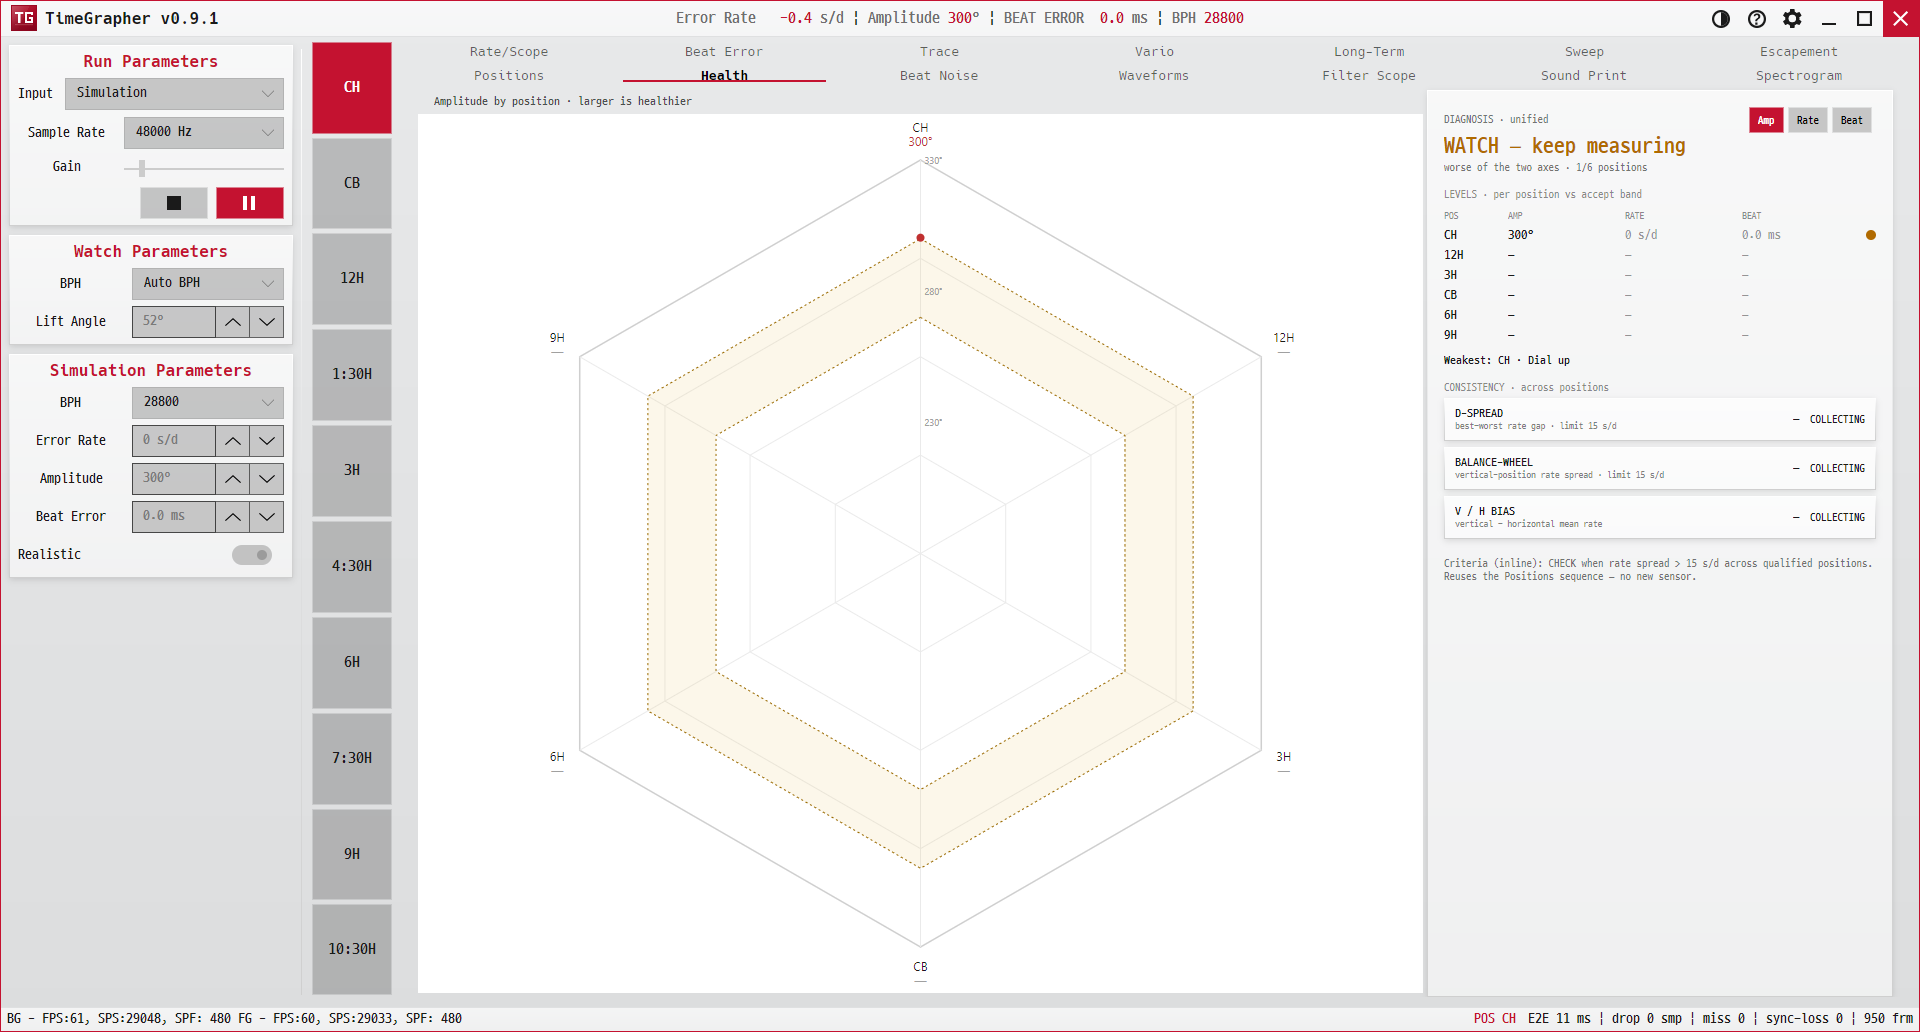
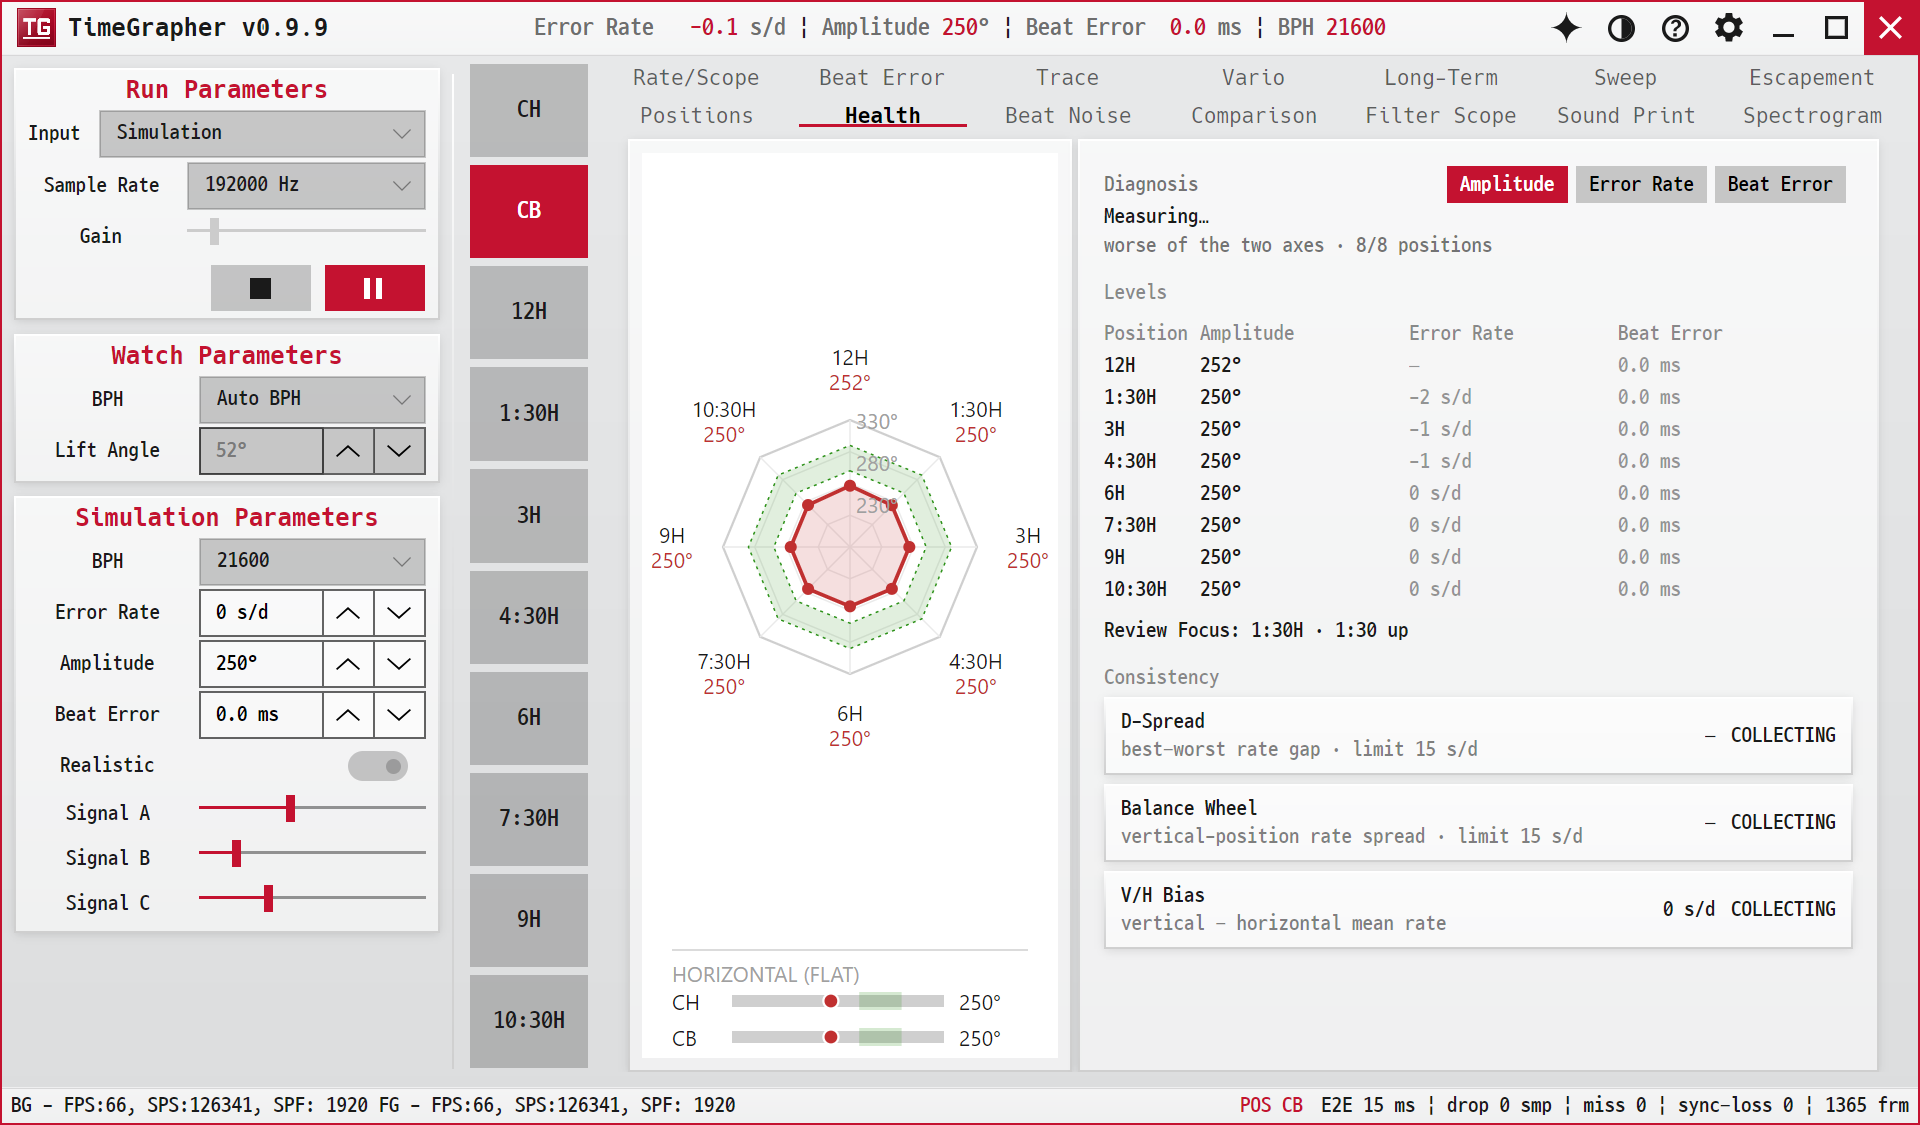
docs(health): update the manual for the octagon radar and CH/CB strip
[en]
Update the Health manual page (ko/en/pt) to describe the eight vertical-position
octagon and the separate horizontal (CH/CB) gauge strip, and recapture
tab-health.png from the running app at its default window size.

[ko]
Health 매뉴얼 페이지(ko/en/pt)를 수직 8자세 팔각형과 별도 수평(CH/CB) 게이지 영역
설명으로 갱신하고, 실행 중인 앱에서 기본 창 크기로 tab-health.png를 재캡처한다.

diff --git a/manual/graphs/health.html b/manual/graphs/health.html
@@ -18,15 +18,15 @@
     <div class="content-inner">
 
       <h1>10. Health</h1>
-      <p class="lede ko">자세별 측정값을 육각형 레이더로 펼치고, 옆의 진단 패널에서 "이 시계가 건강한지"를 한 줄 판정으로 정리합니다. 새 센서 없이 <a href="positions.html">Positions</a> 데이터를 그대로 재사용합니다.</p>
-      <p class="lede en">Spreads the per-position readings onto a hexagon radar and, in the side panel, boils the watch down to a single health verdict. It reuses the <a href="positions.html">Positions</a> data — no new sensor.</p>
-      <p class="lede pt">Distribui as leituras por posição em um radar hexagonal e, no painel lateral, resume o relógio em um único veredito de saúde. Reaproveita os dados de <a href="positions.html">Positions</a> — sem novo sensor.</p>
+      <p class="lede ko">수직 8개 자세의 측정값을 팔각형 레이더로 펼치고, 수평(CH/CB)은 아래 게이지로 분리해 보여주며, 옆의 진단 패널에서 "이 시계가 건강한지"를 한 줄 판정으로 정리합니다. 새 센서 없이 <a href="positions.html">Positions</a> 데이터를 그대로 재사용합니다.</p>
+      <p class="lede en">Spreads the eight vertical-position readings onto an octagon radar, shows the flat horizontal positions (CH/CB) in a separate gauge strip below, and, in the side panel, boils the watch down to a single health verdict. It reuses the <a href="positions.html">Positions</a> data — no new sensor.</p>
+      <p class="lede pt">Distribui as leituras das oito posições verticais em um radar octagonal, mostra as posições horizontais planas (CH/CB) em uma faixa de medidores separada abaixo e, no painel lateral, resume o relógio em um único veredito de saúde. Reaproveita os dados de <a href="positions.html">Positions</a> — sem novo sensor.</p>
 
       <figure>
         <img data-shot src="../img/tab-health.png" alt="Health tab">
-        <figcaption class="ko">그림 1. 왼쪽 = 6개 자세 육각 레이더(건강 띠 = 허용 링), 오른쪽 = 진단 패널(종합 판정 · Levels · Consistency).</figcaption>
-        <figcaption class="en">Fig 1. Left = six-position hexagon radar (healthy band = accept ring); right = diagnosis panel (overall verdict · Levels · Consistency).</figcaption>
-        <figcaption class="pt">Fig 1. Esquerda = radar hexagonal de seis posições (faixa saudável = anel de aceitação); direita = painel de diagnóstico (veredito geral · Levels · Consistency).</figcaption>
+        <figcaption class="ko">그림 1. 왼쪽 = 수직 8자세 팔각 레이더(건강 띠 = 허용 링) + 하단 수평(CH/CB) 게이지, 오른쪽 = 진단 패널(종합 판정 · Levels · Consistency).</figcaption>
+        <figcaption class="en">Fig 1. Left = eight vertical-position octagon radar (healthy band = accept ring) with a horizontal (CH/CB) gauge strip below; right = diagnosis panel (overall verdict · Levels · Consistency).</figcaption>
+        <figcaption class="pt">Fig 1. Esquerda = radar octagonal de oito posições verticais (faixa saudável = anel de aceitação) com uma faixa de medidores horizontais (CH/CB) abaixo; direita = painel de diagnóstico (veredito geral · Levels · Consistency).</figcaption>
       </figure>
 
       <h2><span class="ko">용도</span><span class="sep"> · </span><span class="en">Purpose</span><span class="sep"> · </span><span class="pt">Finalidade</span></h2>
@@ -36,7 +36,7 @@
 
       <h2><span class="ko">무엇이 보이나</span><span class="sep"> · </span><span class="en">What's shown</span><span class="sep"> · </span><span class="pt">O que é exibido</span></h2>
       <ul>
-        <li><span class="ko"><b>육각 레이더(왼쪽)</b> — 6개 표준 자세(CH·12H·3H·CB·6H·9H)를 꼭짓점으로 한 육각형. 중심에서 바깥으로 갈수록 값이 큽니다. 음영 <b>건강 띠(링)</b>는 다른 그래프와 동일한 <a href="vario.html">허용 범위</a>입니다. 아직 측정 안 된 자세는 <code>—</code>.</span><span class="en"><b>Hexagon radar (left)</b> — the six standard positions (CH·12H·3H·CB·6H·9H) as vertices; values grow from centre outward. The shaded <b>healthy band (ring)</b> is the same <a href="vario.html">accept range</a> the other graphs use. Positions not yet measured read <code>—</code>.</span><span class="pt"><b>Radar hexagonal (esquerda)</b> — as seis posições padrão (CH·12H·3H·CB·6H·9H) como vértices; os valores crescem do centro para fora. A <b>faixa saudável (anel)</b> sombreada é a mesma <a href="vario.html">faixa de aceitação</a> usada pelos outros gráficos. Posições ainda não medidas mostram <code>—</code>.</span></li>
+        <li><span class="ko"><b>팔각 레이더(왼쪽)</b> — 수직 8개 자세(12H·1:30·3H·4:30·6H·7:30·9H·10:30)를 시계 방향 꼭짓점으로 한 팔각형(각 꼭짓점 = 실제 시계 자세). 중심에서 바깥으로 갈수록 값이 큽니다. 수평(평면) 자세 <b>CH·CB</b>는 다른 축이라 아래 게이지로 분리해 보여줍니다. 음영 <b>건강 띠(링)</b>는 다른 그래프와 동일한 <a href="vario.html">허용 범위</a>입니다. 아직 측정 안 된 자세는 <code>—</code>.</span><span class="en"><b>Octagon radar (left)</b> — the eight vertical positions (12H·1:30·3H·4:30·6H·7:30·9H·10:30) as clockwise vertices (each vertex matches the watch's clock orientation); values grow from centre outward. The flat horizontal positions <b>CH·CB</b> are a different axis, shown in a gauge strip below. The shaded <b>healthy band (ring)</b> is the same <a href="vario.html">accept range</a> the other graphs use. Positions not yet measured read <code>—</code>.</span><span class="pt"><b>Radar octagonal (esquerda)</b> — as oito posições verticais (12H·1:30·3H·4:30·6H·7:30·9H·10:30) como vértices no sentido horário (cada vértice corresponde à orientação do relógio); os valores crescem do centro para fora. As posições horizontais planas <b>CH·CB</b> são um eixo diferente, exibidas em uma faixa de medidores abaixo. A <b>faixa saudável (anel)</b> sombreada é a mesma <a href="vario.html">faixa de aceitação</a> usada pelos outros gráficos. Posições ainda não medidas mostram <code>—</code>.</span></li>
         <li><span class="ko"><b>측정값 토글(오른쪽 위)</b> — <code>Amplitude</code> / <code>Error Rate</code> / <code>Beat Error</code>로 레이더가 그리는 항목을 바꿉니다.</span><span class="en"><b>Metric toggle (top-right)</b> — <code>Amplitude</code> / <code>Error Rate</code> / <code>Beat Error</code> switches which measure the radar plots.</span><span class="pt"><b>Alternância de medida (canto superior direito)</b> — <code>Amplitude</code> / <code>Error Rate</code> / <code>Beat Error</code> troca qual medida o radar traça.</span></li>
         <li><span class="ko"><b>종합 판정</b> — 패널 맨 위 판정 문구. Levels와 Consistency 중 더 나쁜 쪽을 따릅니다.</span><span class="en"><b>Overall verdict</b> — verdict text at the top of the panel; follows the worse of Levels and Consistency.</span><span class="pt"><b>Veredito geral</b> — texto de veredito no topo do painel; segue o pior entre Levels e Consistency.</span></li>
         <li><span class="ko"><b>LEVELS · 자세별 vs 허용 띠</b> — 행마다 한 자세, 열은 <code>Position · Amplitude · Error Rate · Beat Error</code>. 오른쪽 점은 그 자세 세 항목 중 가장 나쁜 등급(녹/황/적). 아래에는 우선 검토할 자세가 표시됩니다.</span><span class="en"><b>LEVELS · per position vs accept band</b> — one row per position, columns <code>Position · Amplitude · Error Rate · Beat Error</code>. The dot on the right is the worst of that position's three measures (green/amber/red); the review-focus position is called out below.</span><span class="pt"><b>LEVELS · por posição vs faixa de aceitação</b> — uma linha por posição, colunas <code>Position · Amplitude · Error Rate · Beat Error</code>. O ponto à direita é o pior das três medidas daquela posição (verde/âmbar/vermelho); a posição a revisar primeiro é destacada abaixo.</span></li>